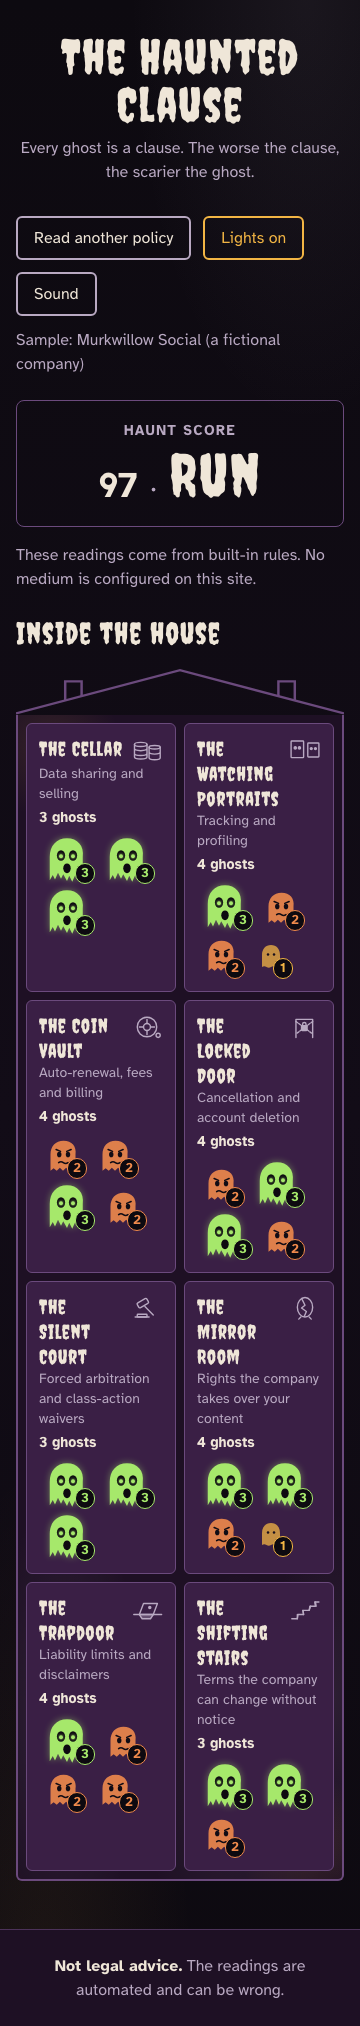
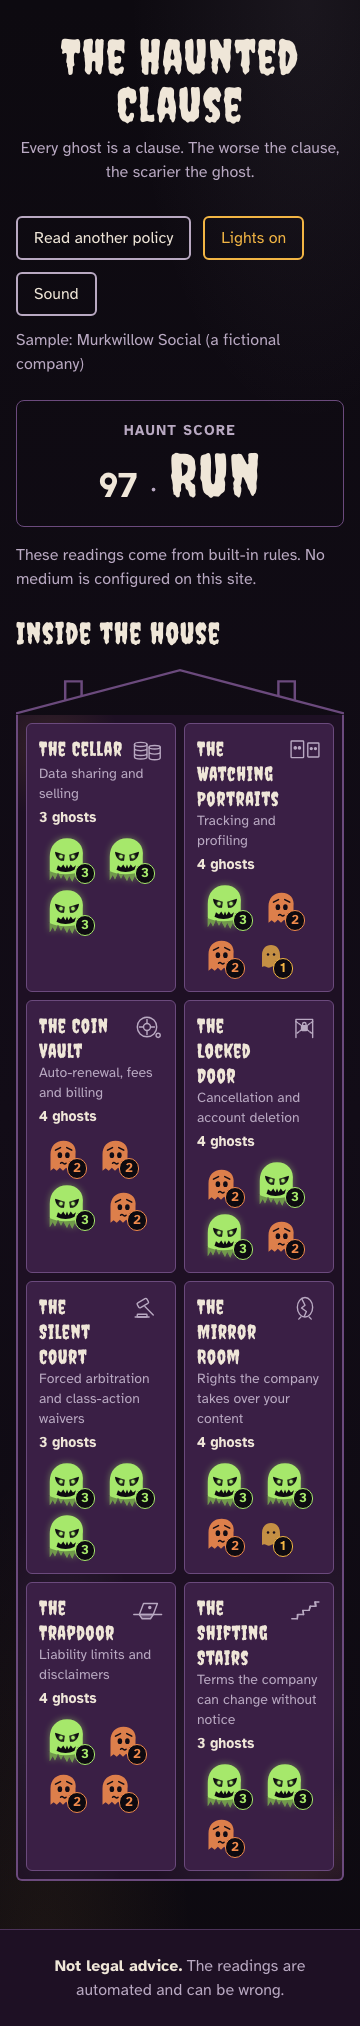
Task 32.0 (C15): worried level 2, menacing level 3; screenshots regenerated

diff --git a/src/components/house/GhostArt.tsx b/src/components/house/GhostArt.tsx
@@ -15,6 +15,7 @@ const TATTERED = "M32 3C18 3 9 13 9 28v31l4-7 3 6 4-9 4 8 3-6 5 9 3-7 4 8 4-9 3 
 const WISP = "M33 8c-9 0-15 7-15 15 0 7 4 11 9 13-3 3-7 4-11 4 6 5 15 4 20-2 6-5 9-12 9-18 0-7-5-12-12-12Z";
 
 const SHAPE = ["wisp", "faint", "uneasy", "tattered"] as const;
+const FACE = ["none", "calm", "worried", "menacing"] as const;
 
 export function GhostArt({ severity }: { severity: Severity }) {
   const style = {
@@ -23,7 +24,7 @@ export function GhostArt({ severity }: { severity: Severity }) {
     opacity: "var(--ghost-opacity)",
     color: "var(--ghost-colour)",
   };
-  const common = { viewBox: "0 0 64 64", "aria-hidden": true, focusable: false, className: "hc-art", style, "data-shape": SHAPE[severity] } as const;
+  const common = { viewBox: "0 0 64 64", "aria-hidden": true, focusable: false, className: "hc-art", style, "data-shape": SHAPE[severity], "data-face": FACE[severity] } as const;
 
   if (severity === 0) {
     return (
@@ -46,11 +47,11 @@ export function GhostArt({ severity }: { severity: Severity }) {
     return (
       <svg {...common}>
         <path d={UNEASY} fill="currentColor" />
-        {/* Worried brows and a wobbling mouth. */}
-        <path d="M21 20l7 3M45 20l-7 3" stroke={INK} strokeWidth="2.5" strokeLinecap="round" />
-        <ellipse cx="26" cy="28" rx="3.5" ry="4.5" fill={INK} />
-        <ellipse cx="40" cy="28" rx="3.5" ry="4.5" fill={INK} />
-        <path d="M25 41c2.5-2 5-2 7.5 0s5 2 7.5 0" fill="none" stroke={INK} strokeWidth="2.5" strokeLinecap="round" />
+        {/* Worried, not angry: brows raised at the inner ends, wide eyes, a small wavering mouth (C15). */}
+        <path data-part="brows-worried" d="M20 21l8-4M46 21l-8-4" stroke={INK} strokeWidth="2.5" strokeLinecap="round" />
+        <ellipse cx="27" cy="29" rx="3.6" ry="4.6" fill={INK} />
+        <ellipse cx="39" cy="29" rx="3.6" ry="4.6" fill={INK} />
+        <path d="M28 42c1.5-1.5 3-1.5 4.5 0s3 1.5 4.5 0" fill="none" stroke={INK} strokeWidth="2.2" strokeLinecap="round" />
       </svg>
     );
   }
@@ -58,12 +59,14 @@ export function GhostArt({ severity }: { severity: Severity }) {
     <svg {...common}>
       <path d={TATTERED} fill="currentColor" className="hc-glow" />
       <path d={TATTERED} fill="currentColor" />
-      {/* Hollow sockets with glowing eyes, and a gaping mouth. */}
-      <ellipse cx="24" cy="26" rx="5.5" ry="7" fill={INK} />
-      <ellipse cx="40" cy="26" rx="5.5" ry="7" fill={INK} />
-      <circle cx="24" cy="27" r="2.6" fill="currentColor" className="hc-eye-glow" />
-      <circle cx="40" cy="27" r="2.6" fill="currentColor" className="hc-eye-glow" />
-      <ellipse cx="32" cy="43" rx="5" ry="6.5" fill={INK} />
+      {/* A darker, shredded lower edge (C15). */}
+      <path data-part="hem-dark" d="M9 46v13l4-7 3 6 4-9 4 8 3-6 5 9 3-7 4 8 4-9 3 6 5-8 2 7V46c-8 4-15 5-23 5s-15-1-23-5Z" fill={INK} opacity="0.35" />
+      {/* Menacing: slanted hollow sockets with glowing eyes, and a jagged grin (C15). */}
+      <path d="M16 21l13 4-1 8c-6 1-11-3-12-12Z" fill={INK} />
+      <path d="M48 21l-13 4 1 8c6 1 11-3 12-12Z" fill={INK} />
+      <circle cx="24" cy="27.5" r="2.4" fill="currentColor" className="hc-eye-glow" />
+      <circle cx="40" cy="27.5" r="2.4" fill="currentColor" className="hc-eye-glow" />
+      <path data-part="mouth-jagged" d="M20 39l4 3 3-4 3 5 2-5 2 5 3-5 3 4 4-3-2 6c-8 4-16 4-24 0Z" fill={INK} />
     </svg>
   );
 }

diff --git a/src/components/house/Ghost.test.tsx b/src/components/house/Ghost.test.tsx
@@ -52,6 +52,27 @@ describe("Ghost (R5.1–R5.5)", () => {
     expect(shapes[3].glow).toBeGreaterThan(0);
     expect(shapes[0].glow + shapes[1].glow + shapes[2].glow).toBe(0);
   });
+  it("level 2 looks worried, not angry; level 3 is the most menacing face (C15)", () => {
+    const art = (s: Severity) => {
+      const { container, unmount } = render(<Ghost finding={finding(s)} room={cellar} tabIndex={0} onOpen={() => {}} />);
+      const svg = container.querySelector("svg.hc-art")!.cloneNode(true) as SVGElement;
+      unmount();
+      return svg;
+    };
+    const two = art(2);
+    const three = art(3);
+    expect(two.getAttribute("data-face")).toBe("worried");
+    expect(two.querySelector('[data-part="brows-worried"]')).not.toBeNull();
+    expect(two.querySelector('[data-part="mouth-jagged"]')).toBeNull();
+    expect(two.querySelectorAll(".hc-eye-glow")).toHaveLength(0);
+    expect(three.getAttribute("data-face")).toBe("menacing");
+    expect(three.querySelectorAll(".hc-eye-glow").length).toBeGreaterThanOrEqual(2);
+    expect(three.querySelector('[data-part="mouth-jagged"]')).not.toBeNull();
+    expect(three.querySelector('[data-part="hem-dark"]')).not.toBeNull();
+    // Levels 0 and 1 carry no face drama.
+    expect(art(0).getAttribute("data-face")).toBe("none");
+    expect(art(1).getAttribute("data-face")).toBe("calm");
+  });
   it("calls onOpen with the finding and the button", async () => {
     const onOpen = vi.fn();
     render(<Ghost finding={finding(2)} room={cellar} tabIndex={0} onOpen={onOpen} />);

diff --git a/BUILD_LOG.md b/BUILD_LOG.md
@@ -874,3 +874,9 @@ The user said Task 31.4 (Gate 4) had finished from the spec task panel. I found 
 PLAN.md and PLAN_DECISIONS.md re-read at the start of the phase, together with the Phase 5 tasks (32.1–33.3).
 - **Spec sync fired** (`PostFileSave`) when I ticked haunted-house-ui **Task 31.5 Visual review stop**. Files changed by 31.5: `docs/screenshots/` (13 PNGs, committed in `e72da36`) and BUILD_LOG.md (the user's replies). No tests were run for this tick; the last runs were for Task 31.6 (768 unit and 71 E2E passed). Kiro features: the spec (task 31.5) and the Spec sync hook. README feature list: unchanged, since 31.5 adds no user-facing feature.
 - Spec sync fired again on the next save of the same `tasks.md`, but that save only **added** Task 32.0 (ghost expressions, C15) and ticked nothing, so there is no completed task to record and the README list is unchanged. The `PostFileSave` trigger fires on every save of a `tasks.md`, not only on a tick; that is a known limit of C12.4.
+
+### Task 32.0: ghost expressions (C15)
+- A new `Ghost.test.tsx` test was written first and failed: level 2 must carry `data-face="worried"` with raised-inner-end brows and no jagged mouth or glowing eyes; level 3 `data-face="menacing"` with glowing eyes, a jagged mouth and a darker hem layer; levels 0 and 1 `none` and `calm`.
+- `GhostArt.tsx`: level 2 now has brows raised at their inner ends, wide eyes and a small wavering mouth. Level 3 has slanted hollow sockets with glowing eyes, a jagged grin and a darker shredded lower edge. Size, opacity, colour and numeral are unchanged (the flow.spec computed-style checks still pass).
+- Results: `npm test` 71 files, 769 passed; `CI=1 npm run test:e2e` 71 passed; lint and type-check clean. `CI=1 npm run screenshots` (3 passed) regenerated all 13 PNGs. I looked at the terrible house at 1440 px: level 3 reads as the most menacing and level 2 as worried. No review stop, as C15 says.
+- **Spec sync fired** (`PostFileSave`) when I ticked haunted-house-ui **Task 32.0 Ghost expressions**. Files changed: `src/components/house/GhostArt.tsx`, `src/components/house/Ghost.test.tsx`, `docs/screenshots/` (13 PNGs). Tests: `npm test` 769 passed, 0 failed; `CI=1 npm run test:e2e` 71 passed, 0 failed. Kiro features: the spec (task 32.0 under C15) and the Spec sync hook. README feature list: the house line now names the worried and menacing faces.

diff --git a/README.md b/README.md
@@ -11,7 +11,7 @@ Paste any Terms & Conditions or privacy policy and it becomes a haunted house. E
 <!-- features:start -->
 - Arrive at a moonlit haunted house: paste a policy of up to 50,000 characters, or open one of three fictional sample houses (mild, average, terrible).
 - The analysis runs in your browser: a rule-based reader splits the text into clauses and sorts risky ones into eight rooms.
-- The haunted house: eight rooms, each with a drawn prop that identifies it, and one ghost per flagged clause whose size, shape, opacity, colour, motion and numeral rise with severity, from a calm wisp (checked, looks fine) to a tattered ghost with glowing eyes.
+- The haunted house: eight rooms, each with a drawn prop that identifies it, and one ghost per flagged clause whose size, shape, opacity, colour, motion and numeral rise with severity, from a calm wisp (checked, looks fine) through a worried ghost to a tattered, menacing ghost with glowing eyes and a jagged grin.
 - Click or press Enter on a ghost to read the exact clause (without its section heading), a plain-English explanation, why it matters and where the reading came from; a clause that reassures you (for example "We do not sell your data") is explained as a reassurance.
 - A large Haunt Score above the house, led by its band label (Mostly quiet, Uneasy, Haunted, Run).
 - Lights on mode: the same findings as a plain, accessible list, including the note when a reassurance lowers a clause's severity.

diff --git a/.kiro/specs/haunted-house-ui/tasks.md b/.kiro/specs/haunted-house-ui/tasks.md
@@ -200,7 +200,7 @@ Each task is test first: write the failing test, run it and see it fail, write t
   - _Requirements: 20.1–20.4_
 
 - [ ] 32. Edge cases, loading and error states (Phase 5)
-- [ ] 32.0 Ghost expressions (PLAN_DECISIONS.md C15)
+- [x] 32.0 Ghost expressions (PLAN_DECISIONS.md C15)
   - Extend `Ghost.test.tsx` first: level 2 has a worried face (`data-face="worried"`, raised inner brows) and no jagged mouth; level 3 has `data-face="menacing"`, glowing eyes, a jagged mouth and a darker hem layer; size, opacity, colour and numeral unchanged.
   - Then change `GhostArt.tsx`, run the full suites and `CI=1 npm run screenshots`, and commit the regenerated PNGs. No review stop (the user approved this in C15).
   - _Requirements: 5.4_
